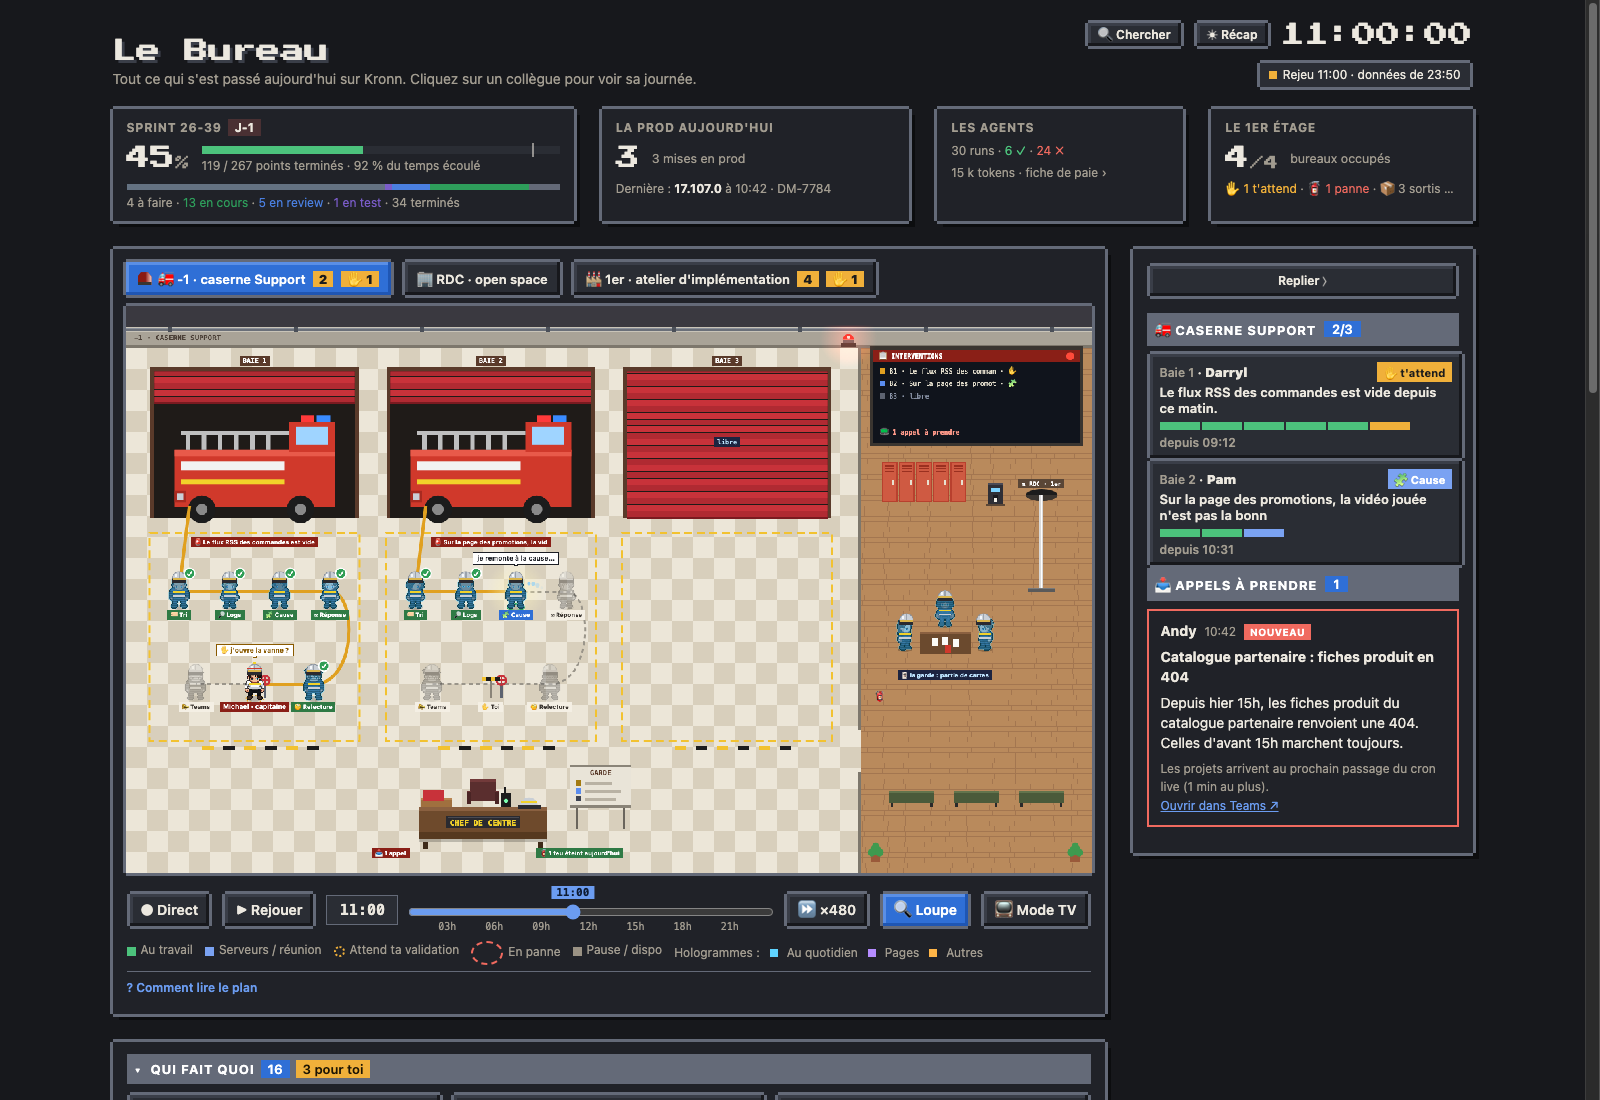
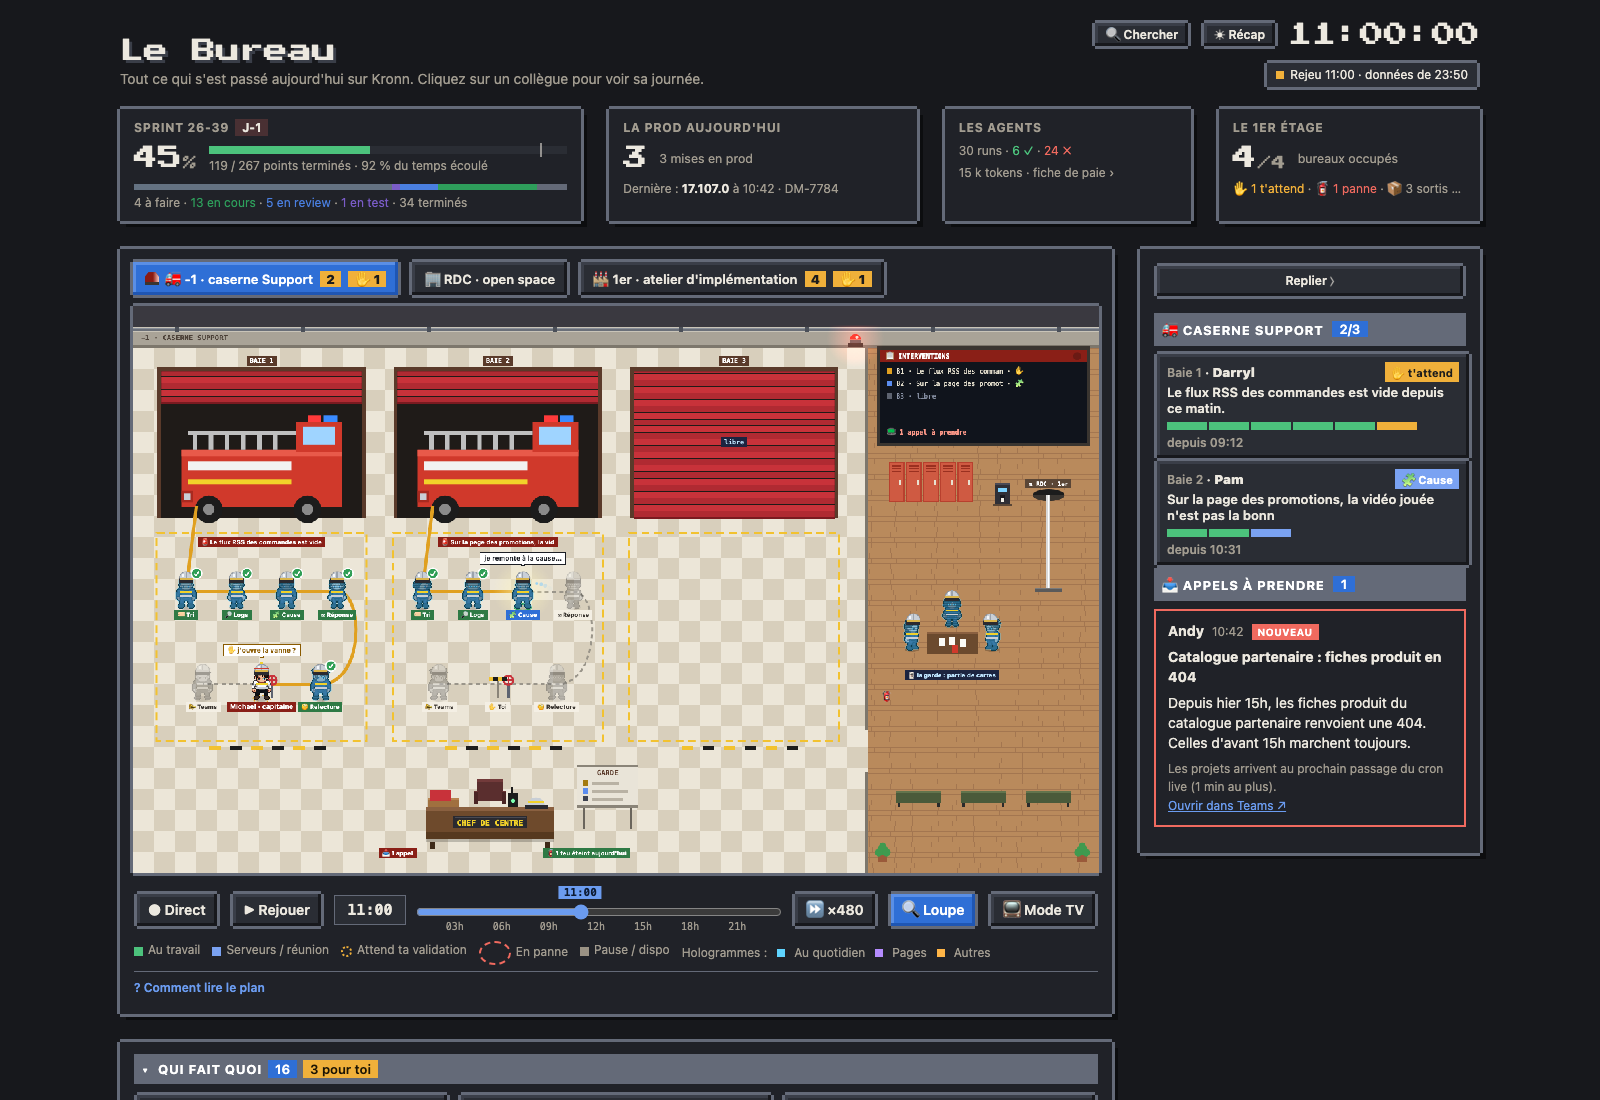
fix(etages): le 1er et le -1 se comportent comme le RDC
- Loupe au -1 (csLoupeEvents : départ en intervention, réponse qui attend à la
  vanne, poste en panne, camion qui rentre), et donc la pause du rejeu
  accéléré qu'elle commande, comme au RDC et au 1er.
- Rejeu rapide : on marche plus vite au 1er et au -1 (walkBoost), les scènes
  suivent le curseur.
- Thèmes au -1 (csTheme) : sapin et guirlande, citrouilles, ballons.
- Ménage au -1 après le 1er (csCleanerAt) : il descend la barre, balaie
  l'allée devant chaque baie et la salle de garde, et remonte.
- Guides, CHANGELOG, captures, test.

diff --git a/page/src/68-caserne.js b/page/src/68-caserne.js
@@ -388,9 +388,50 @@ function csNight(slots,now){
     const l=CS_NIGHT_CV[1].getContext('2d');l.clearRect(0,0,W_,H_);l.filter='blur(3px)';l.drawImage(CS_NIGHT_CV[0],0,0);l.filter='none';}
   const sm=ctx.imageSmoothingEnabled;ctx.imageSmoothingEnabled=true;ctx.drawImage(CS_NIGHT_CV[1],0,0,AT_W,AT_H);ctx.imageSmoothingEnabled=sm;
 }
+// ---------- le ménage du soir au -1 : après le 1er (atCleanVisit, 68-atelier.js), l'agent d'entretien descend la barre ----------
+// Rejouable comme au 1er : tout se lit dans l'heure du plan. Il descend par la barre (le seul accès), balaie l'allée devant
+// chaque baie d'un bout à l'autre, puis la salle de garde, et remonte : un quart de chaque étape à marcher, le reste à balayer.
+const CS_CLEAN_DUR=25*60e3;
+function csCleanVisit(c,t){const v=atCleanVisit(c,t-AT_CLEAN_DUR)||atCleanVisit(c,t);return v?{s:v.e,e:v.e+CS_CLEAN_DUR}:null;}
+function csCleanStops(){
+  const T_=AT_TS, pole={x:CS_PX,y:CS_POLE.y1}, st=[{p:pole,room:'la barre'}];
+  CS_G.forEach((z,b)=>{const p={x:z.cx,y:CS_LANE};st.push({p,room:'la baie '+(b+1),sweep:[p,{x:z.cx-4.5*T_,y:CS_LANE},{x:z.cx+4.5*T_,y:CS_LANE},p]});});
+  const g={x:CS_TABLE.x,y:CS_TABLE.y+1.6*T_};st.push({p:g,room:'la salle de garde',sweep:[g,{x:g.x-2*T_,y:g.y},{x:g.x+3*T_,y:g.y},g]});
+  return st.concat([{p:pole,room:'la barre'}]);
+}
+function csCleanerAt(c,t){
+  const v=csCleanVisit(c,t);if(!v||t<v.s||t>=v.e)return null;
+  const st=csCleanStops(), n=st.length-1, k=(t-v.s)/(v.e-v.s)*n, j=Math.min(n-1,Math.floor(k)), f=k-j, a=st[j].p, b=st[j+1].p;
+  if(f<.25){const q=atAlong([a,{x:a.x,y:CS_LANE},{x:b.x,y:CS_LANE},b],f/.25);return {x:q.x,y:q.y,dir:q.dir,moving:true,stop:st[j+1],v};}
+  const sw=st[j+1].sweep;if(!sw)return null; // remonté par la barre
+  const q=atAlong(sw,(f-.25)/.75);return {x:q.x,y:q.y,dir:q.dir,moving:false,sweeping:true,stop:st[j+1],v};
+}
+// ---------- thèmes (46-themes.js) au -1, comme au 1er étage ----------
+function csTheme(now){
+  const T_=AT_TS, y=CS_DY0*T_-4;
+  if(themeIs('noel')){xmasTreeAt(CS_TABLE.x+2.6*T_,CS_TABLE.y+1.4*T_,now);
+    for(let k=0;k<40;k++){ctx.fillStyle=['#ff4a4a','#ffd84a','#4aff8a','#4ac8ff'][(k+Math.floor(now/500))%4];ctx.beginPath();ctx.arc(1.2*T_+k*(33.6*T_/39),y+Math.sin(k*.9)*3,3,0,7);ctx.fill();}}
+  if(themeIs('halloween'))CS_G.forEach(z=>{E('🎃',z.cx-4.2*T_,(CS_DY1+.4)*T_,14);E('🎃',z.cx+4.2*T_,(CS_DY1+.4)*T_,14);});
+  if(themeIs('nouvel-an')||themeIs('saint-valentin'))[[CS_TABLE.x-1.5*T_,CS_TABLE.y-2*T_],[CS_TABLE.x+3*T_,CS_TABLE.y-2*T_]].forEach(([x,yy],k)=>balloon(themeIs('nouvel-an')?'🎈':'💗',x,yy,now,k));
+}
+// ---------- loupe (44-loupe.js) au -1 : l'arrivée des pompiers, la vanne, une panne, le départ du camion ----------
+// Chaque événement : des points du plan (le cadre les englobe) et sa légende ; un id par fil, montré une fois.
+function csLoupeEvents(){
+  const out=[], M=CS_MEM, T_=AT_TS, boss=chars.find(c=>c.boss);
+  const who=id=>{const t=spThreads().find(x=>x.id===id)||{};return (spWho(t.from)||'?')+' · '+(t.subject||clip(t.text||'',40));};
+  M.slots.forEach((id,b)=>{if(!id)return;const z=CS_G[b], truck=atPt(z.cx,(CS_DY1-1)*T_,'','','x'), crew=y=>atPt(z.cx,y*T_,'','','x');
+    const add=(k,label,pts)=>{pts[0].name=k==='cs_gate'?(boss?boss.name:'Le capitaine'):'Pompiers';pts.forEach(p=>{p._st={st:k,label};});out.push({id:k+':'+id,kind:k,cs:pts});};
+    if(M.dep[b])add('cs_depart','📣 Réponse postée : le camion rentre · '+who(id),[crew(CS_R1+.5),truck]);
+    else if(M.arr[b])add('cs_arrive','🚒 Départ en intervention, baie '+(b+1)+' · '+who(id),[truck,crew(CS_R2+.3)]);
+    const st=M.st[b]||{};
+    if(st.gate==='gate')add('cs_gate','✋ La réponse attend ta validation · '+who(id),[crew(CS_R2+.3),crew(CS_R1+.5)]);
+    if(Object.values(st).includes('err'))add('cs_err','🔥 Un poste en panne · '+who(id),[crew(CS_R1+.5),crew(CS_R2+.3)]);
+  });
+  return out;
+}
 // ---------- l'image ----------
 function renderCaserne(now){
-  const dt=CS_MEM.last?Math.min(.1,(now-CS_MEM.last)/1000):0;CS_MEM.last=now;
+  const dt=(CS_MEM.last?Math.min(.1,(now-CS_MEM.last)/1000):0)*walkBoost();CS_MEM.last=now; // rejeu rapide : comme au 1er et au RDC
   if(!CS_BG)CS_BG=csBackground();
   ctx.drawImage(CS_BG,0,0);CS_HITS=[];CS_LIT=[];
   // comme au 1er (renderAtelier) : un saut du curseur ou un passage du direct au rejeu pose la caserne sans rejouer
@@ -398,8 +439,13 @@ function renderCaserne(now){
   CS_MEM.lastT=T;CS_MEM.live=live;
   const slots=csSlots(now), people=[];
   slots.forEach((s,b)=>csBay(s,b,now,dt,people));
+  {const cl=atCleaner(), m=cl&&csCleanerAt(cl,T); // le ménage du -1, après celui du 1er
+    if(m){const a=Object.assign(Object.create(Object.getPrototypeOf(cl)),cl,{pos:{x:m.x,y:m.y},tile:null,dir:m.dir,moving:m.moving||!!m.sweeping,pose:'stand',present:true,_st:{st:'idle'}});
+      const [dx,dy]={left:[-20,0],right:[20,0]}[m.dir]||[20,2];CS_LIT.push(a.pos);
+      people.push([a,()=>drawCart({x:m.x+dx,y:m.y+dy}),false,()=>{if(m.sweeping)E('🧹',m.x,m.y-66,12);}]);}}
   csBoard(slots,now);csGuard(now,people);csWalkers(now,dt,people);csCaptain(slots,now,dt,people);csBeacon(now);
   people.sort((a,b)=>a[0].pos.y-b[0].pos.y).forEach(([c,d,before,after])=>{if(before&&d)d();if(c.sprite)drawChar(c,now);if(!before&&d)d();if(after)after();});
+  csTheme(now); // comme au 1er : sapin et guirlande à Noël, citrouilles à Halloween, ballons
   csNight(slots,now);
   const hp=csPickedAt();if(hp)selHalo(hp.x,hp.y-26,AT_W,AT_H); // comme au RDC et au 1er : le plan s'assombrit autour de celui qu'on a choisi
   if(CS_SEL!=null){const b=CS_MEM.slots.indexOf(CS_SEL);if(b>=0){const z=CS_G[b];ctx.save();ctx.strokeStyle='#ffffff';ctx.lineWidth=3;ctx.setLineDash([8,6]);ctx.lineDashOffset=-now/60;ctx.strokeRect(z.x0+1,CS_DY0*AT_TS-20,z.w-2,(CS_Z1-CS_DY0)*AT_TS+24);ctx.restore();}}

diff --git a/page/src/44-loupe.js b/page/src/44-loupe.js
@@ -9,8 +9,9 @@ const LOUPE_MS=20e3, LOUPE_WAIT_MAX=40e3, LOUPE_HOVER_MS=5e3;
 const LOUPE_KINDS={reopen:['⛔','#b3122e'],proud:['🎉','#0172f0'],party:['🎉','#0172f0'],thumbs:['👍','#2e9e5b'],guest:['👋','#2e9e5b'],
   daily:['☀','#2e9e9b'],planning:['🗓','#2e9e9b'],retro:['🔄','#c25a9e'],kickoff:['🏁','#2e9e9b'],pizza:['🍕','#2e9e9b'],duck:['🦆','#c47f00'],hatch:['🐣','#c47f00'],trophy:['🏆','#c47f00'],ufo:['🛸','#b5481c'],brew:['☕','#6b3e1e'],
   // 1er étage (68-atelier.js, atLoupeEvents) : ticket qui sort, qui arrive, ta décision, retour au code, panne, ménage
-  at_exit:['📦','#2e9e5b'],at_arrive:['🎫','#0172f0'],at_gate:['✋','#c47f00'],at_back:['↩','#b3122e'],at_err:['🧯','#b3122e'],at_clean:['🧹','#6b3e1e']};
-const LOUPE_ORDER=['at_exit','at_gate','at_back','at_err','at_arrive','at_clean','reopen','ufo','brew','proud','guest','thumbs','kickoff','planning','retro','daily','pizza','party','trophy','hatch','duck'];
+  at_exit:['📦','#2e9e5b'],at_arrive:['🎫','#0172f0'],at_gate:['✋','#c47f00'],at_back:['↩','#b3122e'],at_err:['🧯','#b3122e'],at_clean:['🧹','#6b3e1e'],
+  cs_arrive:['🚒','#d0392b'],cs_gate:['✋','#c47f00'],cs_err:['🔥','#b3122e'],cs_depart:['📣','#2e9e5b']};
+const LOUPE_ORDER=['cs_depart','cs_gate','cs_err','cs_arrive','at_exit','at_gate','at_back','at_err','at_arrive','at_clean','reopen','ufo','brew','proud','guest','thumbs','kickoff','planning','retro','daily','pizza','party','trophy','hatch','duck'];
 // cérémonies : toute l'équipe est dans la scène, la légende la nomme au lieu d'énumérer tout le monde
 const LOUPE_CEREMONY={daily:"Daily de l'équipe",planning:'Sprint planning',retro:'Rétrospective',kickoff:'Lancement du sprint',pizza:'Pizza de fin de sprint'};
 let LOUPE_ON=!REDUCED_MOTION;try{const v=localStorage.getItem('bureau:loupe');if(v!==null)LOUPE_ON=v!=='0';}catch(e){} // un choix du bouton passe avant le réglage système
@@ -24,9 +25,8 @@ function loupeKind(c){
 // événements qui commencent depuis le dernier passage ; le premier passage ne fait que noter ce qui est déjà en cours
 function loupeScan(){
   const groups={}, now=new Set(), fresh=[];
-  if(FLOOR===-1){LOUPE.seen=new Set();return [];} // la caserne (68-caserne.js) : ses scènes se voient sur le plan entier
-  if(FLOOR===1){ // 1er étage : seulement ses événements (68-atelier.js)
-    for(const ev of atLoupeEvents(performance.now())){now.add(ev.id);if(LOUPE.seen&&!LOUPE.seen.has(ev.id))fresh.push(ev);}
+  if(FLOOR===1||FLOOR===-1){ // un étage : seulement ses événements (68-atelier.js, 68-caserne.js)
+    for(const ev of (FLOOR===1?atLoupeEvents:csLoupeEvents)(performance.now())){now.add(ev.id);if(LOUPE.seen&&!LOUPE.seen.has(ev.id))fresh.push(ev);}
     LOUPE.seen=now;return fresh.sort((a,b)=>LOUPE_ORDER.indexOf(a.kind)-LOUPE_ORDER.indexOf(b.kind));
   }
   for(const c of chars){

diff --git a/tests/caserne.test.js b/tests/caserne.test.js
@@ -322,3 +322,17 @@ test("plus de porte des étages : la barre de pompier seule ; le gyrophare tourn
   assert.equal(J('csAlarm()'), false);
   assert.doesNotMatch(J('floorTabsHtml()'), /gyro/);
 });
+
+test('alignés sur le 1er : la loupe du -1 (gate, arrivée, départ), le ménage par la barre, la marche accélérée en rejeu', () => {
+  const p = load(), J2 = c => JSON.parse(p.run('JSON.stringify(' + c + ')'));
+  p.run(`CS_MEM = csMem0(); CS_MEM.slots = ['m1', 'm2', null]; CS_MEM.st = [{tri: 'ok', gate: 'gate'}, {tri: 'err'}, null]; CS_MEM.arr = [null, {}, null];
+    SUPPORT = {threads: [{id: 'm1', from: 'Beesly, Pam', subject: 'Flux vide'}, {id: 'm2', from: 'Halpert, Jim', text: 'Erreur 500'}]};`);
+  assert.deepEqual(J2('csLoupeEvents().map(e => e.kind)'), ['cs_gate', 'cs_arrive', 'cs_err']);
+  assert.match(J2('csLoupeEvents()[0].cs[0]._st.label'), /attend ta validation · Pam · Flux vide/);
+  p.run(`var __c = {key: 'menage'}, __v = {s: 0, e: 1e6}; var __av = atCleanVisit; atCleanVisit = () => __v;`);
+  const m = J2(`Array.from({length: 40}, (_, k) => csCleanerAt(__c, 1e6 + CS_CLEAN_DUR * k / 40)).filter(Boolean).map(m => [m.stop.room, !!m.sweeping])`);
+  for (const r of ['la baie 1', 'la baie 2', 'la baie 3', 'la salle de garde']) assert.ok(m.some(([x, s]) => x === r && s), r);
+  assert.equal(J2(`csCleanerAt(__c, 1e6 + CS_CLEAN_DUR - 1)`), null, 'remonté par la barre');
+  p.run('atCleanVisit = __av; mode = "play"; setSpeed(480);');
+  assert.equal(J2('walkBoost()'), 8, 'rejeu ×480 : on marche 8 fois plus vite, aux étages aussi');
+});

diff --git a/page/src/90-boot.js b/page/src/90-boot.js
@@ -23,7 +23,7 @@ function loop(now){
     galleryFrame(now); // 46-gallery.js : fin d'une démonstration
     fxFrame(now); // 43-fx.js : petites scènes de 3 s (succès, éclosion, stade, agent rétabli)
     if(FLOOR===1){renderAtelier(now);loupeFrame(now);} // 68-atelier.js : le 1er étage, à la place de l'open space, avec sa loupe
-    else if(FLOOR===-1)renderCaserne(now); // 68-caserne.js : le sous-sol
+    else if(FLOOR===-1){renderCaserne(now);loupeFrame(now);} // 68-caserne.js : le sous-sol, avec sa loupe (et la pause du rejeu)
     else{
       render(now);
       loupeFrame(now); // 44-loupe.js : médaillon sur l'événement fort en cours

diff --git a/page/src/68-atelier.js b/page/src/68-atelier.js
@@ -696,7 +696,8 @@ function atNight(slots,now){
 }
 // ---------- l'image ----------
 function renderAtelier(now){
-  const dt=AT_MEM.last?Math.min(.1,(now-AT_MEM.last)/1000):0;AT_MEM.last=now;
+  // en rejeu rapide, on marche plus vite, comme au RDC (walkBoost, 35-state.js) : les scènes suivent le curseur
+  const dt=(AT_MEM.last?Math.min(.1,(now-AT_MEM.last)/1000):0)*walkBoost();AT_MEM.last=now;
   if(!AT_BG)AT_BG=atBackground();
   ctx.drawImage(AT_BG,0,0);atWindows(now);AT_HITS=[];AT_LIT=[];
   // un saut du curseur (plus de 2 min de l'heure du plan) ou un passage du direct au rejeu : l'étage se pose sans rejouer

diff --git a/guide/fonctionnalites/23-atelier.md b/guide/fonctionnalites/23-atelier.md
@@ -31,7 +31,7 @@ Les workflows de l'étage (la chaîne et ses postes, modèles `impl*`) ne passen
 
 - **Jour et nuit**, comme au RDC : des fenêtres au-dessus des bureaux 1 et 2 prennent la couleur du ciel (soleil à Paris, étoiles la nuit). Hors des heures de bureau, l'éclairage baisse ; seuls restent allumés les bureaux qui ont un ticket (la chaîne tourne aussi la nuit : chaque poste sous sa lampe, le tapis éclairé), le grand tableau, la lampe du bureau du boss et la sortie. Comme au RDC, le boss reste à son fauteuil le soir et le week-end, et les agents restent à leur poste (ceux des bureaux libres somnolent et se promènent comme en journée) ; seul Bernard rentre chez lui. Le soir, chacun a sa lumière, comme au RDC : le boss, les agents à leur poste et ceux qui marchent (promeneurs, Bernard, l'agent d'entretien, le pompier) ; elle les suit quand ils se déplacent.
 - **Les trajets** : le tapis laisse une allée le long du mur extérieur (à gauche des bureaux 1 et 3, à droite des bureaux 2 et 4). Un agent qui sort passe derrière sa rangée, fait le tour par cette allée si sa rangée est loin de la porte, puis sort par la porte : il ne marche plus sur le tapis ni sur les autres.
-- **Rejouer** : l'étage suit l'heure du plan, comme le RDC. En rejeu ou en pause, il est reconstruit à cette heure-là d'après les moments du relevé (24 h) : bureaux occupés, poste du carton, gate ouverte ; le bandeau « ⏪ Rejeu · 09:36 » le rappelle. Les scènes (Bernard qui apporte ou emporte un carton) se jouent quand le curseur avance sur ce moment, en lecture ou en glissant doucement ; « ⏵ revoir » sur une ligne du 1er dans le fil monte à l'étage et la rejoue en ×1. Un saut du curseur pose l'étage sans rejouer, sauf une arrivée ou une sortie de moins de 2 min, qui se joue quand même (en direct aussi, en montant à l'étage).
+- **Rejouer** : l'étage suit l'heure du plan, comme le RDC ; en lecture rapide, Bernard et les agents marchent plus vite, comme au RDC. En rejeu ou en pause, il est reconstruit à cette heure-là d'après les moments du relevé (24 h) : bureaux occupés, poste du carton, gate ouverte ; le bandeau « ⏪ Rejeu · 09:36 » le rappelle. Les scènes (Bernard qui apporte ou emporte un carton) se jouent quand le curseur avance sur ce moment, en lecture ou en glissant doucement ; « ⏵ revoir » sur une ligne du 1er dans le fil monte à l'étage et la rejoue en ×1. Un saut du curseur pose l'étage sans rejouer, sauf une arrivée ou une sortie de moins de 2 min, qui se joue quand même (en direct aussi, en montant à l'étage).
 
 ![Le 1er étage au calme : deux bureaux libres, éteints, Bernard à l'entrepôt](../img/atelier-calme.png)
 

diff --git a/guide/fonctionnalites/25-caserne.md b/guide/fonctionnalites/25-caserne.md
@@ -12,6 +12,7 @@ L'onglet « 🚒 -1 · caserne Support » apparaît avant « 🏢 RDC · open sp
 
 - **Trois baies de camion.** Un fil du Support en investigation, une réponse à valider ou une investigation en panne occupe une baie. Un fil garde sa baie jusqu'à la fin ; au-delà de trois, le tableau des interventions dit combien attendent une baie libre. Une baie libre reste fermée.
 - **L'équipe devant son camion**, dans la zone peinte en jaune au sol, rangée dans l'ordre des postes : 🏷 Tri, 🔎 Logs, 🧩 Cause, ✉ Réponse au premier rang, puis 🧐 Relecture, ✋ Toi et 📣 Teams au second. Ce sont des agents : des hologrammes bleus, comme au RDC et au 1er étage, avec la tenue des sapeurs-pompiers (casque F1 chromé, bandes jaune et argent). Seul le capitaine, le boss, est en chair et en os. Même langage qu'au 1er étage : **au travail** (un halo, une bulle, il arrose), **a travaillé** (✓), **attend son tour** (silhouette grise), **en panne** (! rouge et fumée, « relance l'investigation »).
+- **Comme au 1er étage** : la loupe (« 🔍 Loupe ») suit la caserne (départ en intervention, réponse qui attend ta validation à la vanne, poste en panne, camion qui rentre), et le rejeu accéléré s'arrête le temps qu'elle passe ; en lecture rapide, les pompiers marchent plus vite. Les thèmes décorent aussi le -1 (sapin et guirlande au-dessus des baies à Noël, citrouilles à Halloween, ballons). Le soir, après le 1er, l'agent d'entretien descend la barre, balaie l'allée devant chaque baie puis la salle de garde, et remonte.
 - **La nuit**, la lampe du bureau du chef de centre reste allumée, et les pompiers qui descendent la barre ou remontent ont leur lumière.
 - **Rejouer** : la caserne suit l'heure du plan. En rejeu, une intervention est à sa baie de son départ à la réponse postée, ses postes avancent avec les étapes du run, et le capitaine est à la vanne pendant que la gate attendait ; l'arrivée des pompiers et le départ du camion se jouent quand le curseur passe dessus (un saut pose la caserne, sauf une arrivée de moins de 2 min, qui se joue quand même, en direct aussi en descendant).
 - **Le tuyau** part de l'arrière du camion et passe de main en main dans l'ordre des postes : plein et jaune jusqu'au poste au travail, en pointillé gris pour ceux qui viennent ensuite. On lit l'avancement à la longueur de tuyau plein.

diff --git a/CHANGELOG.md b/CHANGELOG.md
@@ -8,6 +8,7 @@ Format : [Keep a Changelog](https://keepachangelog.com/fr/1.1.0/). Versions : `0
 
 ### Corrigé
 
+- Les étages se comportent comme le RDC : la loupe suit aussi le -1 (départ en intervention, vanne, panne, camion qui rentre), avec la pause du rejeu accéléré ; en lecture rapide, on marche plus vite au 1er et au -1 ; les thèmes décorent le -1 ; le soir, l'agent d'entretien fait aussi le -1, par la barre de pompier. Guide : [La caserne](guide/fonctionnalites/25-caserne.md). Après la mise à jour : `publish.py page`.
 - 1er étage : l'agent d'entretien ne reste plus planté à la porte d'un bureau à se tourner de gauche à droite ; il balaie en parcourant chaque bureau d'un bout à l'autre et l'allée de l'entrepôt, et repart dès qu'il a rejoint la sortie (il y attendait plusieurs minutes). La nuit, les bureaux occupés sont bien éclairés (chaque poste sous sa lampe, rangées du haut comme du bas, le tapis), ceux qui marchent ont une lumière plus large, et la lampe du bureau du boss (1er) comme celle du chef de centre (-1) reste allumée ; au -1, les pompiers en route ont leur lumière. Guides : [L'atelier](guide/fonctionnalites/23-atelier.md), [La caserne](guide/fonctionnalites/25-caserne.md). Après la mise à jour : `publish.py page`.
 
 ### Ajouté
